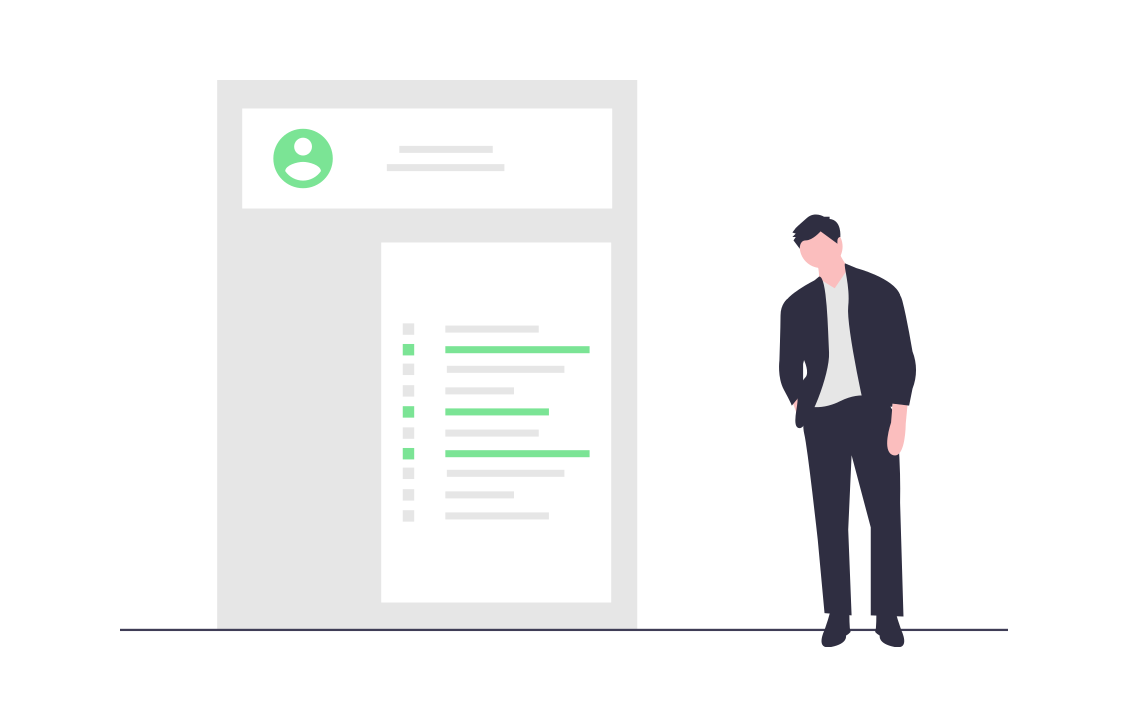
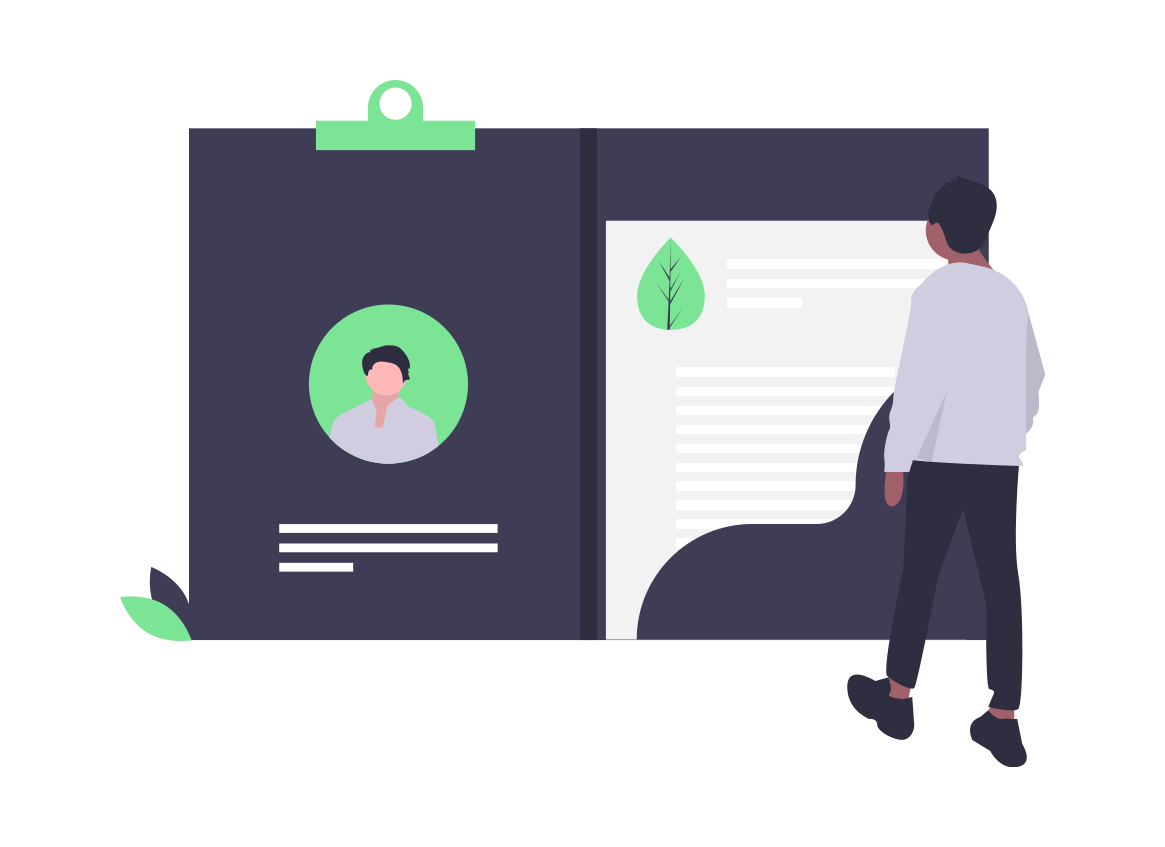
Add Profile Screen

diff --git a/src/Screens/Profile/index.js b/src/Screens/Profile/index.js
@@ -1,0 +1,83 @@
+import React, {Component} from 'react';
+import {View, StyleSheet, Text, Image} from 'react-native';
+import LinearGradient from 'react-native-linear-gradient';
+
+import fonts from '../../config/fonts';
+
+const desc =
+  'Trainer full stack developer yang berdedikasi tinggi mengajarkan teknologi terbaru dalam dunia pemrograman. Berpengalaman dalam mengembangkan aplikasi mobile menggunakan react native, react, express js maupun node js untuk back end. Mampu bekerja dalam team, mampu bekerja remote maupun onsite, serta selalu tertarik akan perkembangan UI/UX design.';
+class Profile extends Component {
+  render() {
+    return (
+      <View style={styles.container}>
+        <LinearGradient
+          colors={['#7be495', '#93f9b9']}
+          style={styles.background}
+          start={{x: 0, y: 0}}
+          end={{x: 1, y: 0}}>
+          <Image
+            style={styles.image}
+            resizeMode="stretch"
+            source={require('../../assets/cv.png')}
+          />
+          <Image
+            style={styles.avatar}
+            source={require('../../assets/me.jpg')}
+          />
+        </LinearGradient>
+        <View style={styles.topContent}>
+          <Text style={styles.name}>Achmad Fatur Rizky</Text>
+          <Text style={styles.title}>React Native Developer</Text>
+          <Text style={styles.desc}>{desc}</Text>
+        </View>
+      </View>
+    );
+  }
+}
+
+export default Profile;
+
+const styles = StyleSheet.create({
+  container: {
+    backgroundColor: '#fff',
+    flex: 1,
+  },
+  background: {
+    width: '100%',
+    height: 250,
+    justifyContent: 'center',
+    alignItems: 'center',
+  },
+  image: {
+    width: 200,
+    height: 150,
+    top: 40,
+  },
+  avatar: {
+    width: 100,
+    height: 100,
+    borderRadius: 100,
+    top: 40,
+  },
+  topContent: {
+    justifyContent: 'center',
+    alignItems: 'center',
+    marginTop: 50,
+  },
+  name: {
+    fontFamily: fonts.bold,
+    fontSize: 18,
+  },
+  title: {
+    fontFamily: fonts.book,
+    fontSize: 13,
+  },
+  desc: {
+    fontFamily: fonts.book,
+    fontSize: 14,
+    textAlign: 'left',
+    marginLeft: 20,
+    marginRight: 20,
+    marginTop: 30,
+  },
+});

diff --git a/src/Navigation/bottomNavigator.js b/src/Navigation/bottomNavigator.js
@@ -4,6 +4,7 @@ import {createBottomTabNavigator} from 'react-navigation-tabs';
 
 import Home from '../Screens/Home';
 import Transaction from '../Screens/Transaction';
+import Profile from '../Screens/Profile';
 
 export const BottomNavigator = createBottomTabNavigator(
   {
@@ -53,8 +54,8 @@ export const BottomNavigator = createBottomTabNavigator(
         ),
       },
     },
-    Place: {
-      screen: Home,
+    Profile: {
+      screen: Profile,
       navigationOptions: {
         tabBarLabel: ({tintColor}) => (
           <Text
@@ -64,12 +65,12 @@ export const BottomNavigator = createBottomTabNavigator(
               color: tintColor,
               bottom: 2,
             }}>
-            Place
+            Profile
           </Text>
         ),
         tabBarIcon: ({tintColor}) => (
           <Image
-            source={require('../assets/icon/place.png')}
+            source={require('../assets/icon/profile.png')}
             resizeMode="stretch"
             style={{height: 25, width: 25, tintColor: tintColor}}
           />

diff --git a/src/components/empty.js b/src/components/empty.js
@@ -7,7 +7,7 @@ export const Empty = props => {
   const {image, title} = props;
   return (
     <View style={styles.contentEmpty}>
-      <Image style={styles.imageEmpty} source={image} />
+      <Image style={styles.imageEmpty} resizeMode="stretch" source={image} />
       <Text style={styles.textEmpty}>{title}</Text>
     </View>
   );
@@ -16,7 +16,7 @@ export const Empty = props => {
 const styles = StyleSheet.create({
   imageEmpty: {
     width: 300,
-    height: 300,
+    height: 200,
   },
   contentEmpty: {
     justifyContent: 'center',

diff --git a/src/Screens/Home/Detail.js b/src/Screens/Home/Detail.js
@@ -12,8 +12,8 @@ import {
 } from 'react-native';
 import LinearGradient from 'react-native-linear-gradient';
 import firebase from 'firebase';
-import fire from '../../config/firebase';
 
+import fire from '../../config/firebase';
 import fonts from '../../config/fonts';
 
 const desc =
